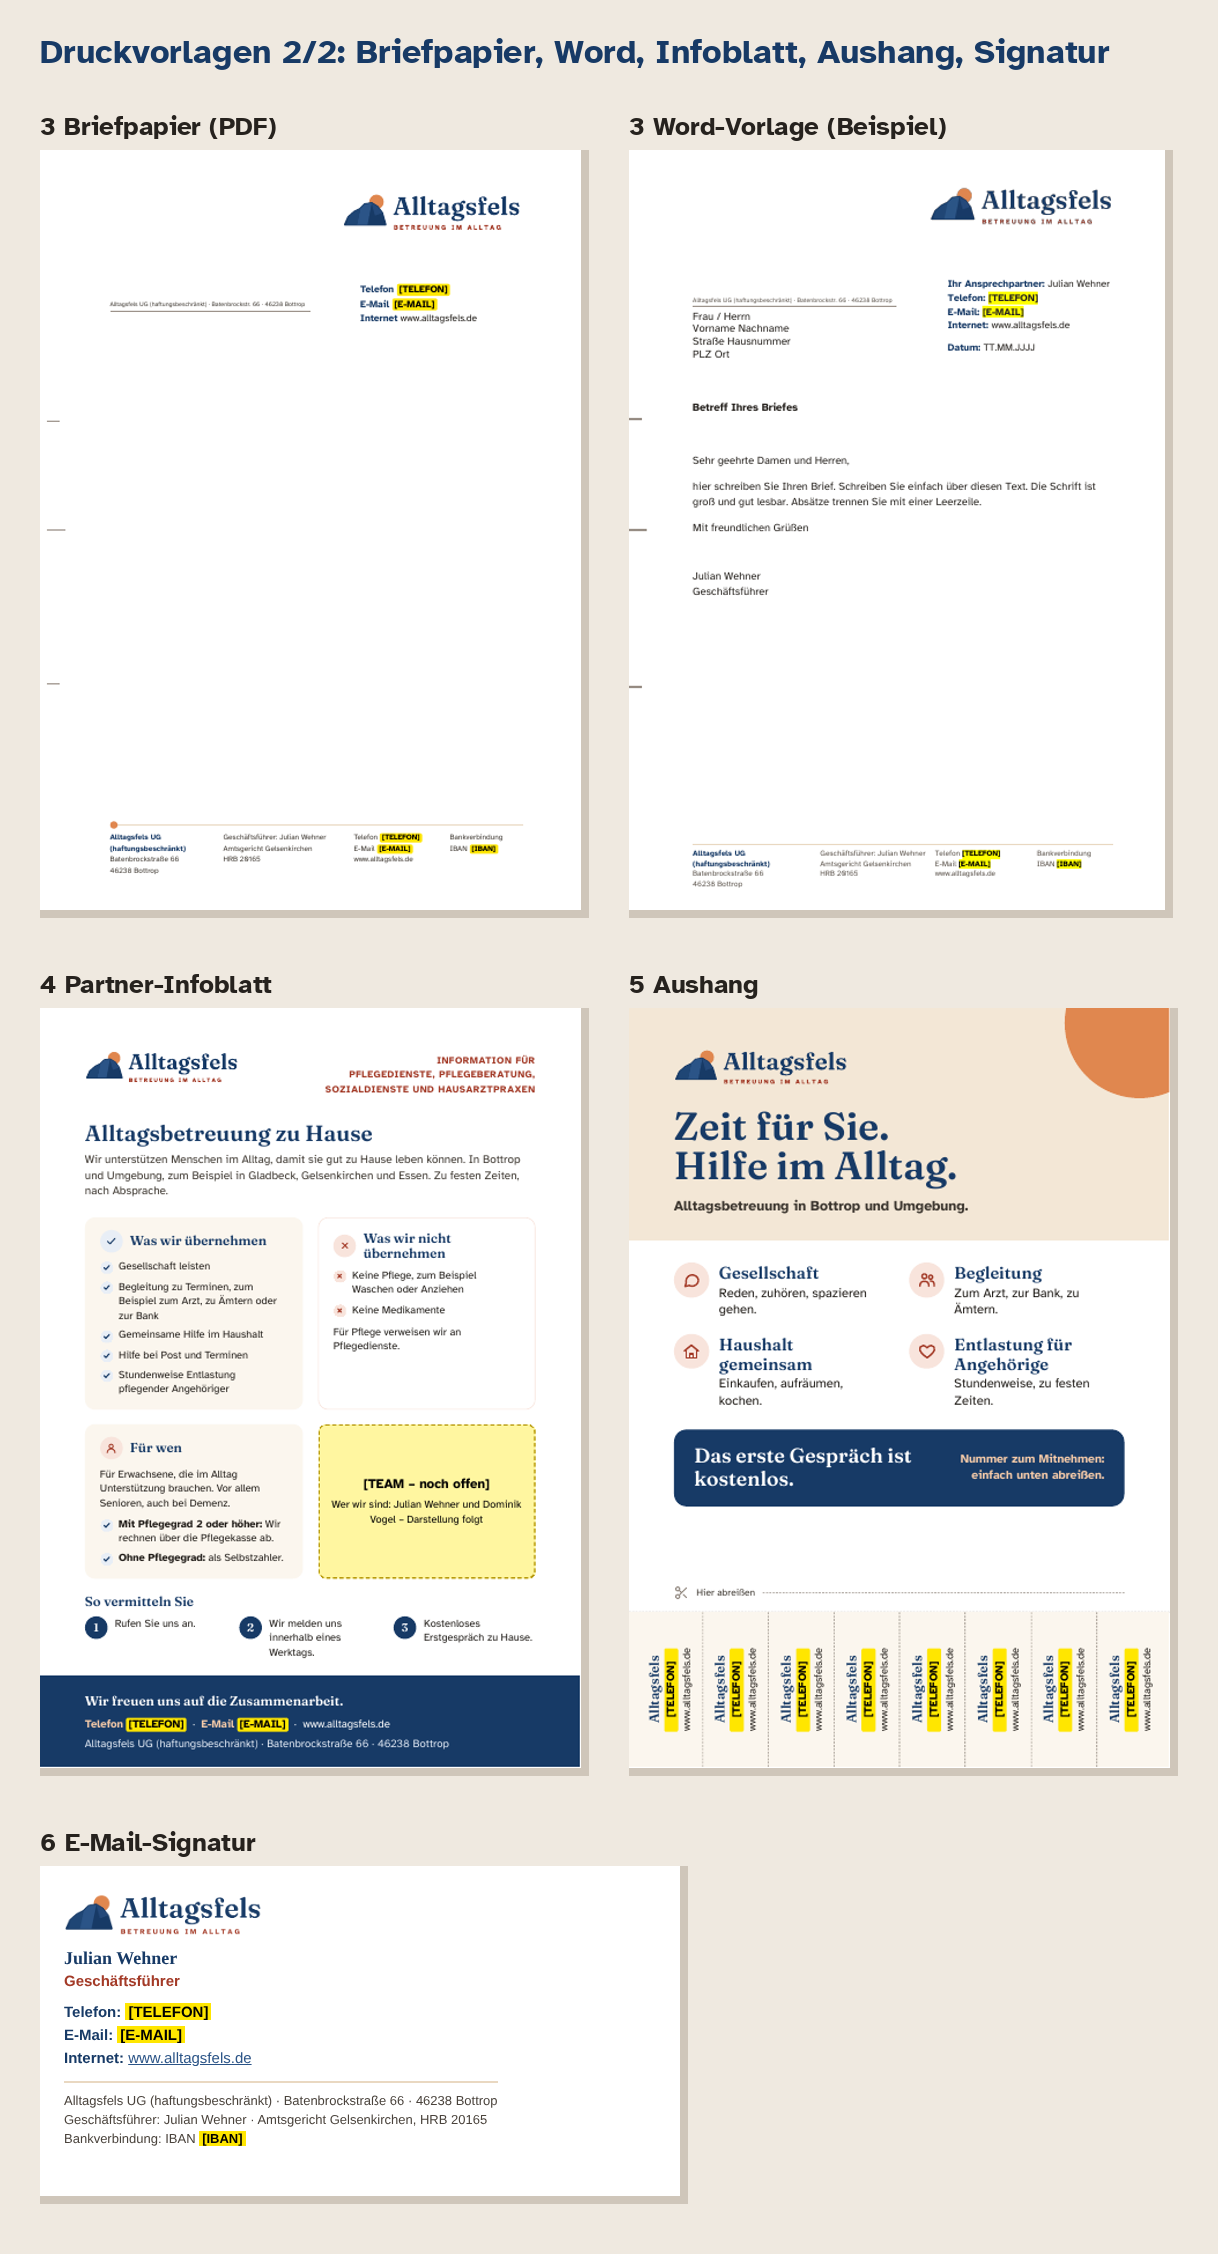
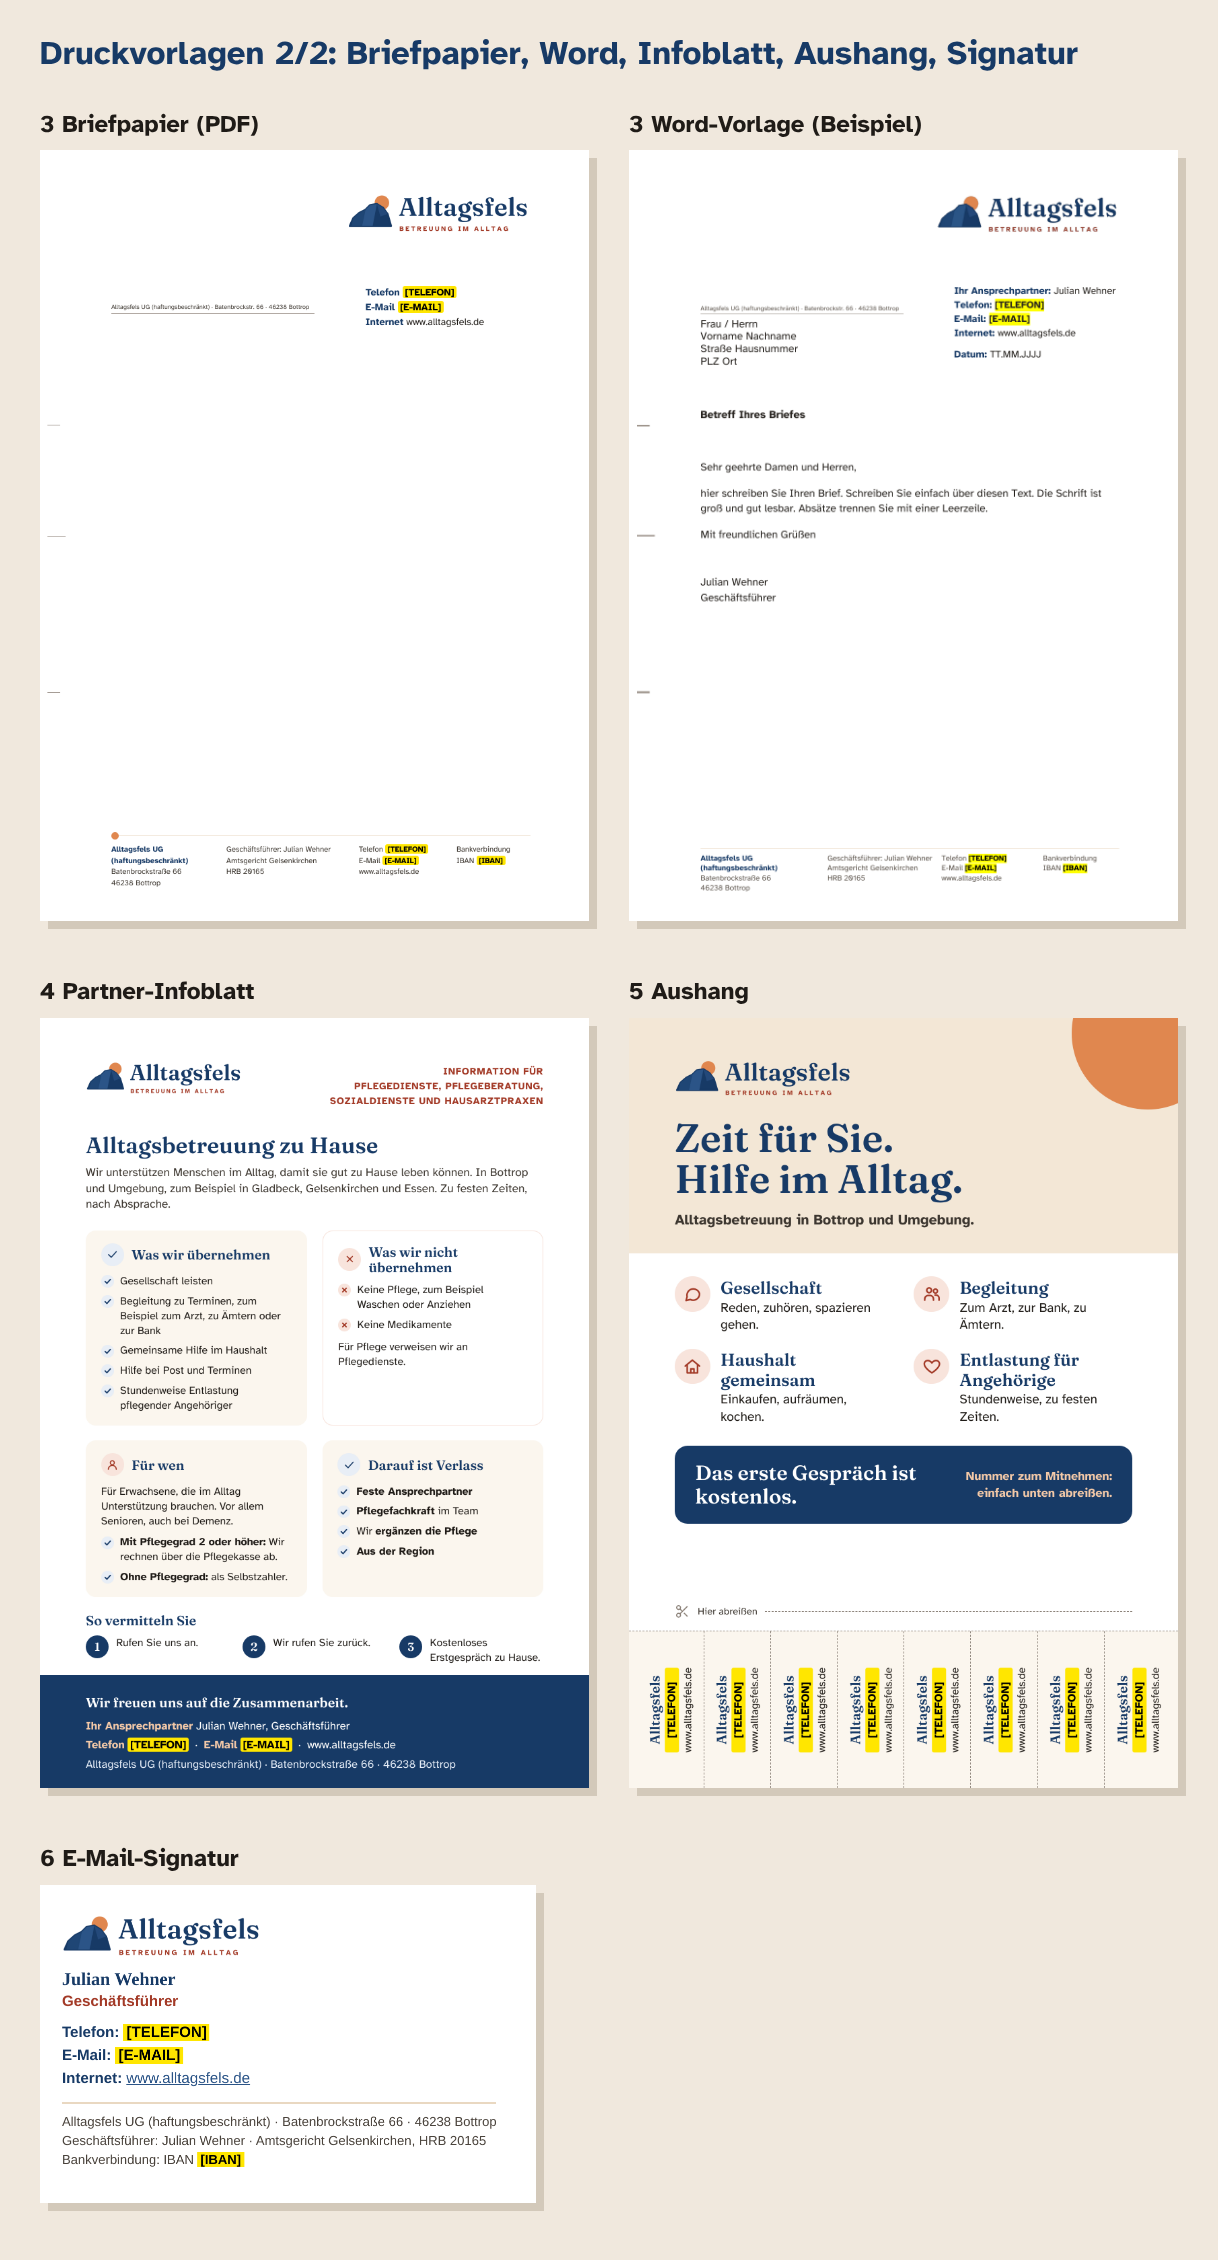
Druckvorlagen: Vorschaubilder aus aktuellen Vorlagen neu erstellt
- Neues Skript druckvorlagen/vorschau-erstellen.js (Node + Playwright):
  rendert Flyer (Außen- und Innenseite), Visitenkarten, Briefpapier,
  Partner-Infoblatt, Aushang und E-Mail-Signatur als Bilder und setzt sie
  zu den zwei Übersichtsbildern in vorschau/ zusammen.
- Word-Beispiel: docx -> PDF (LibreOffice) -> PNG (pdftoppm), gespeichert
  als vorschau/teile/word-beispiel.png und ohne LibreOffice wiederverwendet.
- Beide Vorschaubilder neu: ohne Team-Platzhalter und ohne
  „Montag bis Samstag“, Visitenkarten übersichtlicher angeordnet.
- LIESMICH: Aufruf für die Vorschau ergänzt, veralteten
  [TEAM]-Platzhalter aus der Liste entfernt.

Claude-Session: https://claude.ai/code/session_01N9XQzBzKA8evTvPgGHcg28

diff --git a/druckvorlagen/vorschau-erstellen.js b/druckvorlagen/vorschau-erstellen.js
@@ -1,0 +1,170 @@
+// Erstellt die zwei Vorschaubilder in druckvorlagen/vorschau/ aus den aktuellen Vorlagen.
+// Aufruf (aus dem Hauptordner):  node druckvorlagen/vorschau-erstellen.js
+// Braucht das Programm "Playwright" mit Chromium.
+// Für das Word-Beispiel zusätzlich LibreOffice ("soffice") und "pdftoppm" (Poppler).
+// Fehlen diese, wird das gespeicherte Bild vorschau/teile/word-beispiel.png verwendet.
+
+const fs = require("fs");
+const os = require("os");
+const path = require("path");
+const { pathToFileURL } = require("url");
+const { execFileSync } = require("child_process");
+let chromium;
+try {
+  ({ chromium } = require("playwright"));
+} catch (e) {
+  ({ chromium } = require("/opt/node-tools/node_modules/playwright"));
+}
+
+const QUELLEN = path.join(__dirname, "quellen");
+const SIGNATUR = path.join(__dirname, "email-signatur", "signatur-julian-wehner.html");
+const WORD_DOCX = path.join(__dirname, "word", "alltagsfels-briefvorlage.docx");
+const ZIEL = path.join(__dirname, "vorschau");
+const WORD_BILD = path.join(ZIEL, "teile", "word-beispiel.png");
+
+const alsDataUrl = (inhalt, typ) => `data:${typ};base64,${inhalt.toString("base64")}`;
+
+// Nimmt alle Elemente einer Seite, die zur Auswahl passen, als Bild auf.
+// Der Ausschnitt wird auf ganze Bildpunkte nach innen gerundet, sonst blitzt am Rand
+// eine Linie der Nachbarseite durch (die Seiten liegen in mm, also nicht auf ganzen Pixeln).
+async function aufnehmen(page, datei, auswahl, zusatz = "") {
+  await page.goto(pathToFileURL(datei).href + zusatz, { waitUntil: "load" });
+  await page.evaluate(() => document.fonts.ready);
+  const dpr = await page.evaluate(() => window.devicePixelRatio);
+  const innen = (wert, runden) => runden(wert * dpr) / dpr;
+  const bilder = [];
+  for (const element of await page.locator(auswahl).all()) {
+    const r = await element.boundingBox(); // Seite ist nicht gescrollt: Fenster- = Seitenkoordinaten
+    const x = innen(r.x, Math.ceil);
+    const y = innen(r.y, Math.ceil);
+    const clip = { x, y, width: innen(r.x + r.width, Math.floor) - x, height: innen(r.y + r.height, Math.floor) - y };
+    bilder.push({ src: alsDataUrl(await page.screenshot({ fullPage: true, clip }), "image/png"), breite: clip.width });
+  }
+  if (!bilder.length) throw new Error(`Nichts gefunden: ${auswahl} in ${datei}`);
+  return bilder;
+}
+
+// Word-Vorlage: docx -> PDF (LibreOffice) -> PNG (pdftoppm). Sonst gespeichertes Bild.
+function wordBeispiel() {
+  const tmp = fs.mkdtempSync(path.join(os.tmpdir(), "alltagsfels-word-"));
+  try {
+    // Schriften aus druckvorlagen/schriften/ für LibreOffice bereitstellen (Linux/fontconfig)
+    const fontsConf = path.join(tmp, "fonts.conf");
+    fs.writeFileSync(
+      fontsConf,
+      `<?xml version="1.0"?>\n<fontconfig>\n` +
+        `  <include ignore_missing="yes">/etc/fonts/fonts.conf</include>\n` +
+        `  <dir>${path.join(__dirname, "schriften")}</dir>\n` +
+        `  <cachedir>${path.join(tmp, "fontcache")}</cachedir>\n</fontconfig>\n`
+    );
+    const env = { ...process.env, FONTCONFIG_FILE: fontsConf };
+    const argumente = [
+      "--headless", "--norestore",
+      "-env:UserInstallation=" + pathToFileURL(path.join(tmp, "profil")).href,
+      "--convert-to", "pdf", "--outdir", tmp, WORD_DOCX,
+    ];
+    const programme = ["soffice", "libreoffice", "/Applications/LibreOffice.app/Contents/MacOS/soffice"];
+    let ok = false;
+    for (const programm of programme) {
+      try {
+        execFileSync(programm, argumente, { env, stdio: "ignore", timeout: 120000 });
+        ok = true;
+        break;
+      } catch (e) {
+        if (e.code !== "ENOENT") throw e;
+      }
+    }
+    if (!ok) throw new Error("LibreOffice nicht gefunden");
+    const pdf = path.join(tmp, path.basename(WORD_DOCX, ".docx") + ".pdf");
+    execFileSync("pdftoppm", ["-png", "-f", "1", "-l", "1", "-singlefile", "-scale-to-x", "1100", "-scale-to-y", "-1", pdf, path.join(tmp, "word")], { stdio: "ignore" });
+    fs.mkdirSync(path.dirname(WORD_BILD), { recursive: true });
+    fs.copyFileSync(path.join(tmp, "word.png"), WORD_BILD);
+    console.log("Word-Beispiel neu erstellt:", path.relative(process.cwd(), WORD_BILD));
+  } catch (e) {
+    if (!fs.existsSync(WORD_BILD)) throw new Error("Word-Beispiel fehlt und LibreOffice/pdftoppm geht nicht: " + e.message);
+    console.log("LibreOffice/pdftoppm nicht verfügbar (" + e.message + ") – nehme gespeichertes Word-Beispiel.");
+  } finally {
+    fs.rmSync(tmp, { recursive: true, force: true });
+  }
+  return alsDataUrl(fs.readFileSync(WORD_BILD), "image/png");
+}
+
+// Übersichtsseite im Stil der Vorschau: Beige, Überschrift, nummerierte Bereiche, leichte Schatten
+function uebersicht(breite, titel, inhalt) {
+  const schrift = alsDataUrl(fs.readFileSync(path.join(QUELLEN, "schriften", "atkinson-hyperlegible-latin-700-normal.woff2")), "font/woff2");
+  return `<!DOCTYPE html><html lang="de"><head><meta charset="UTF-8" /><style>
+  @font-face { font-family: "Atkinson Hyperlegible"; src: url(${schrift}) format("woff2"); font-weight: 700; }
+  * { box-sizing: border-box; }
+  html, body { margin: 0; background: #f0e8dd; }
+  body { width: ${breite}px; padding: 34px 40px 52px; font-family: "Atkinson Hyperlegible", Arial, sans-serif; font-weight: 700; color: #1f1b17; }
+  h1 { font-size: 33px; line-height: 1.2; color: #173a66; margin: 0 0 36px; }
+  h2 { font-size: 24px; line-height: 1.2; margin: 0 0 12px; }
+  .reihe { display: grid; grid-template-columns: 1fr 1fr; gap: 40px; align-items: start; margin-bottom: 56px; }
+  .reihe:last-child { margin-bottom: 0; }
+  .paar { display: grid; grid-template-columns: 1fr 1fr; gap: 28px; }
+  .paar h3 { font-size: 19px; line-height: 1.2; color: #5b5047; margin: 0 0 8px; }
+  img { display: block; width: 100%; }
+  .schatten { box-shadow: 8px 8px 0 rgba(110, 90, 65, .22); }
+  /* Word-Seite (A4 ohne Beschnitt) mit 3 mm weißem Rand, damit sie so groß wirkt wie das Briefpapier */
+  .word { background: #fff; padding: calc(100% * 3 / 216); }
+  .signatur { display: inline-block; background: #fff; padding: 26px 40px 34px 22px; }
+</style></head><body><h1>${titel}</h1>${inhalt}</body></html>`;
+}
+
+const bild = (b, klasse = "schatten") => `<img class="${klasse}" src="${b.src}" alt="" />`;
+const bereich = (ueberschrift, html) => `<div><h2>${ueberschrift}</h2>${html}</div>`;
+
+async function speichern(browser, breite, html, name) {
+  const page = await browser.newPage({ viewport: { width: breite, height: 600 }, deviceScaleFactor: 1 });
+  await page.setContent(html, { waitUntil: "load" });
+  await page.evaluate(() => document.fonts.ready);
+  await page.screenshot({ path: path.join(ZIEL, name), fullPage: true });
+  await page.close();
+  console.log("fertig:", name);
+}
+
+(async () => {
+  const wordSrc = wordBeispiel();
+  const browser = await chromium.launch();
+  // doppelte Auflösung, damit die Teile im Übersichtsbild scharf sind
+  const page = await browser.newPage({ viewport: { width: 1400, height: 1200 }, deviceScaleFactor: 2 });
+
+  const [aussen, innen] = await aufnehmen(page, path.join(QUELLEN, "flyer.html"), ".spread", "?bogen");
+  const [julianVorne, julianHinten, dominikVorne, dominikHinten] = await aufnehmen(page, path.join(QUELLEN, "visitenkarten.html"), "section.karte");
+  const [brief] = await aufnehmen(page, path.join(QUELLEN, "briefpapier.html"), "section.seite");
+  const [infoblatt] = await aufnehmen(page, path.join(QUELLEN, "partner-infoblatt.html"), "section.seite");
+  const [aushang] = await aufnehmen(page, path.join(QUELLEN, "aushang.html"), "section.seite");
+  const [signatur] = await aufnehmen(page, SIGNATUR, "body > table");
+  await page.close();
+
+  const karten = (vorne, hinten) =>
+    `<div class="paar"><div><h3>vorne</h3>${bild(vorne)}</div><div><h3>hinten</h3>${bild(hinten)}</div></div>`;
+
+  await speichern(browser, 1706, uebersicht(1706, "Druckvorlagen 1/2: Flyer und Visitenkarten",
+    `<div class="reihe">
+      ${bereich("1 Flyer – Außenseite (Seite 4 | Seite 1)", bild(aussen))}
+      ${bereich("1 Flyer – Innenseite (Seite 2 | Seite 3)", bild(innen))}
+    </div>
+    <div class="reihe">
+      ${bereich("2 Visitenkarte Julian Wehner", karten(julianVorne, julianHinten))}
+      ${bereich("2 Visitenkarte Dominik Vogel", karten(dominikVorne, dominikHinten))}
+    </div>`), "vorschau-flyer-visitenkarten.png");
+
+  await speichern(browser, 1218, uebersicht(1218, "Druckvorlagen 2/2: Briefpapier, Word, Infoblatt, Aushang, Signatur",
+    `<div class="reihe">
+      ${bereich("3 Briefpapier (PDF)", bild(brief))}
+      ${bereich("3 Word-Vorlage (Beispiel)", `<div class="word schatten">${bild({ src: wordSrc }, "")}</div>`)}
+    </div>
+    <div class="reihe">
+      ${bereich("4 Partner-Infoblatt", bild(infoblatt))}
+      ${bereich("5 Aushang", bild(aushang))}
+    </div>
+    <div>
+      ${bereich("6 E-Mail-Signatur", `<div class="signatur schatten"><img src="${signatur.src}" alt="" style="width:${signatur.breite}px" /></div>`)}
+    </div>`), "vorschau-brief-infoblatt-aushang-signatur.png");
+
+  await browser.close();
+})().catch((e) => {
+  console.error(e);
+  process.exit(1);
+});

diff --git a/druckvorlagen/LIESMICH.md b/druckvorlagen/LIESMICH.md
@@ -10,7 +10,6 @@ Gelb markiert sind Angaben, die es noch nicht gibt:
 - **[TELEFON]** – Telefonnummer
 - **[E-MAIL]** – E-Mail-Adresse
 - **[IBAN]** – Bankverbindung (nur Briefpapier und E-Mail-Signatur)
-- **[TEAM – noch offen]** – Kasten für Julian Wehner und Dominik Vogel (Flyer Seite 4 und Partner-Infoblatt)
 
 Die Platzhalter stehen in den Dateien im Ordner `quellen/`. Nach dem Ersetzen müssen die PDFs neu erstellt werden (siehe unten).
 
@@ -61,7 +60,8 @@ Fragt die Druckerei nach einem „Druckbogen“ oder „A4 auf A5 gefalzt“, ne
 
 ## Vorschau – Ordner `vorschau/`
 
-Zwei Bilder mit allen Vorlagen auf einen Blick.
+Zwei Bilder mit allen Vorlagen auf einen Blick. Nach Änderungen an den Vorlagen neu erstellen mit
+`node druckvorlagen/vorschau-erstellen.js` (siehe unten).
 
 ## Quelldateien – Ordner `quellen/`
 
@@ -75,9 +75,12 @@ Bilder liegen in `quellen/bilder/`, Schriften in `quellen/schriften/`.
 node druckvorlagen/pdf-erstellen.js          # alle PDFs
 node druckvorlagen/pdf-erstellen.js flyer    # nur der Flyer
 python3 druckvorlagen/word-vorlage-erstellen.py   # Word-Vorlage
+node druckvorlagen/vorschau-erstellen.js     # beide Vorschaubilder in vorschau/
 ```
 
 Benötigt: Node.js mit Playwright (Chromium), Python 3 mit `pypdf` und `python-docx`.
+Für das Word-Beispiel in der Vorschau zusätzlich LibreOffice und `pdftoppm`; ohne diese wird
+das gespeicherte Bild `vorschau/teile/word-beispiel.png` genommen.
 
 ## Hinweise für die Druckerei
 
